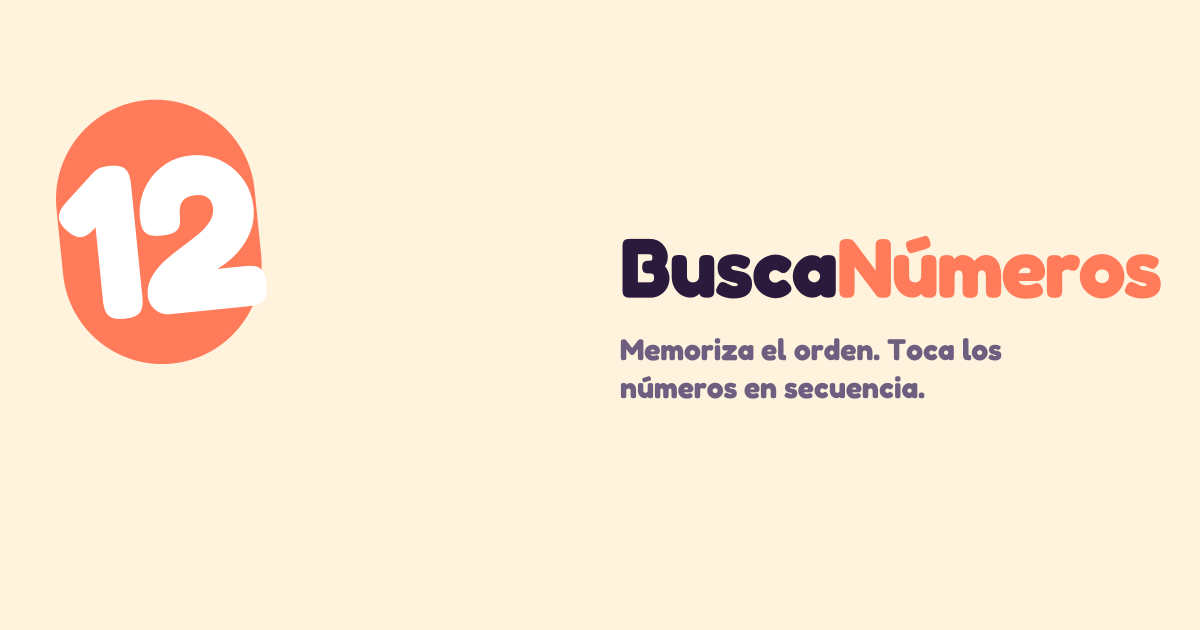
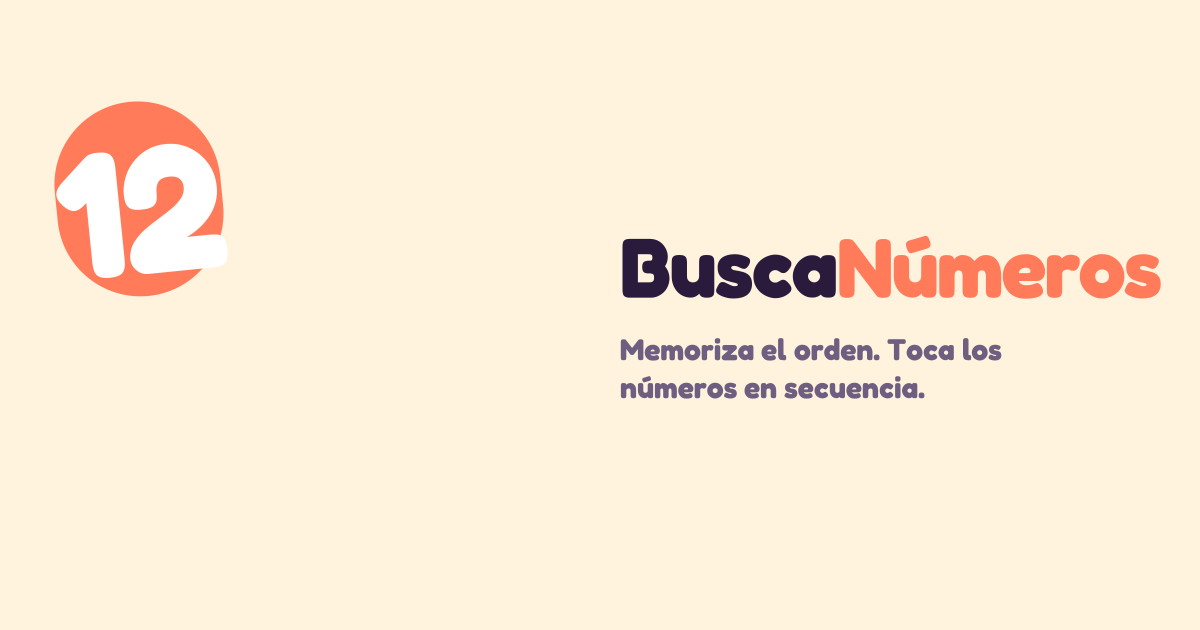
fix(og): centra el tile "12" y ajusta el padding interior

Changed region(s): [[0.0308, 0.1508, 0.2467, 0.6032]]

diff --git a/app/opengraph-image.tsx b/app/opengraph-image.tsx
@@ -62,9 +62,13 @@ export default async function OpenGraphImage() {
               alignItems: "center",
               justifyContent: "center",
               color: "#fff",
-              fontSize: 220,
+              fontSize: 180,
               fontWeight: 700,
-              letterSpacing: -4,
+              letterSpacing: -2,
+              lineHeight: 1,
+              // Las cifras no tienen descendente, así que dentro de su caja de
+              // línea quedan ópticamente altas; bajamos un pelín para centrar.
+              paddingTop: 16,
             }}
           >
             12
